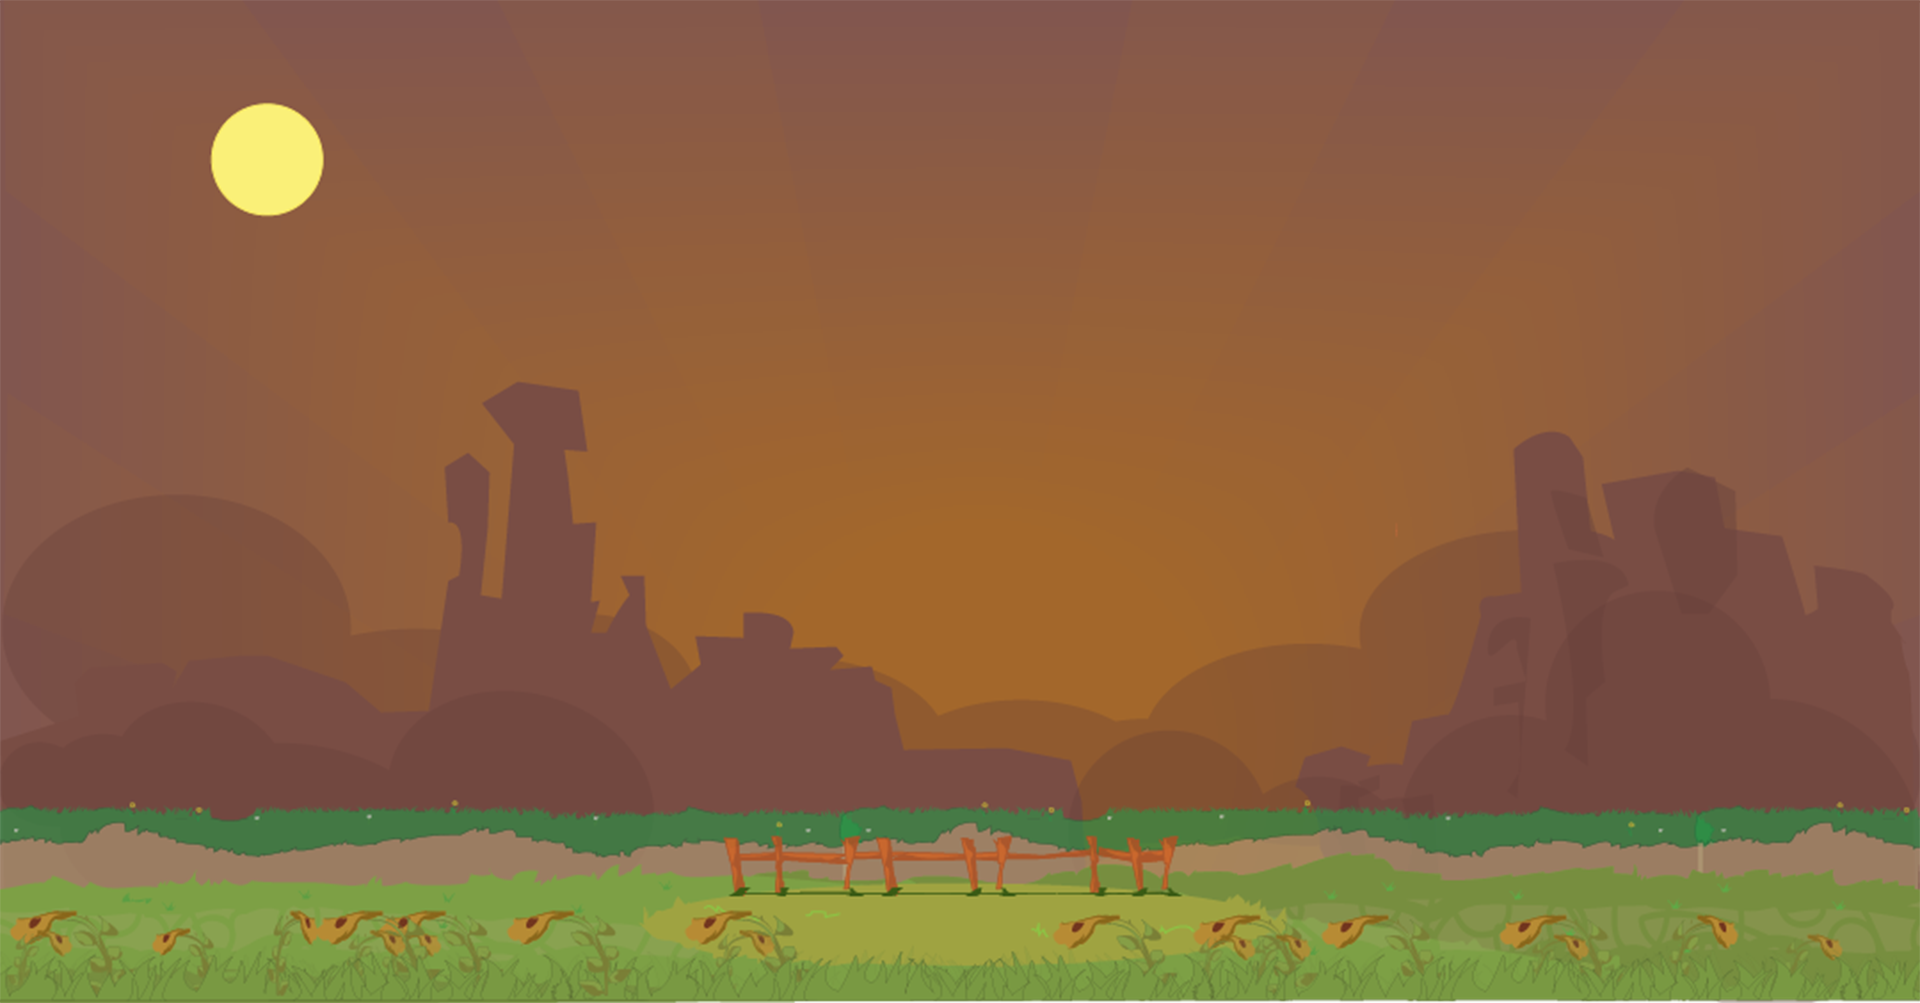
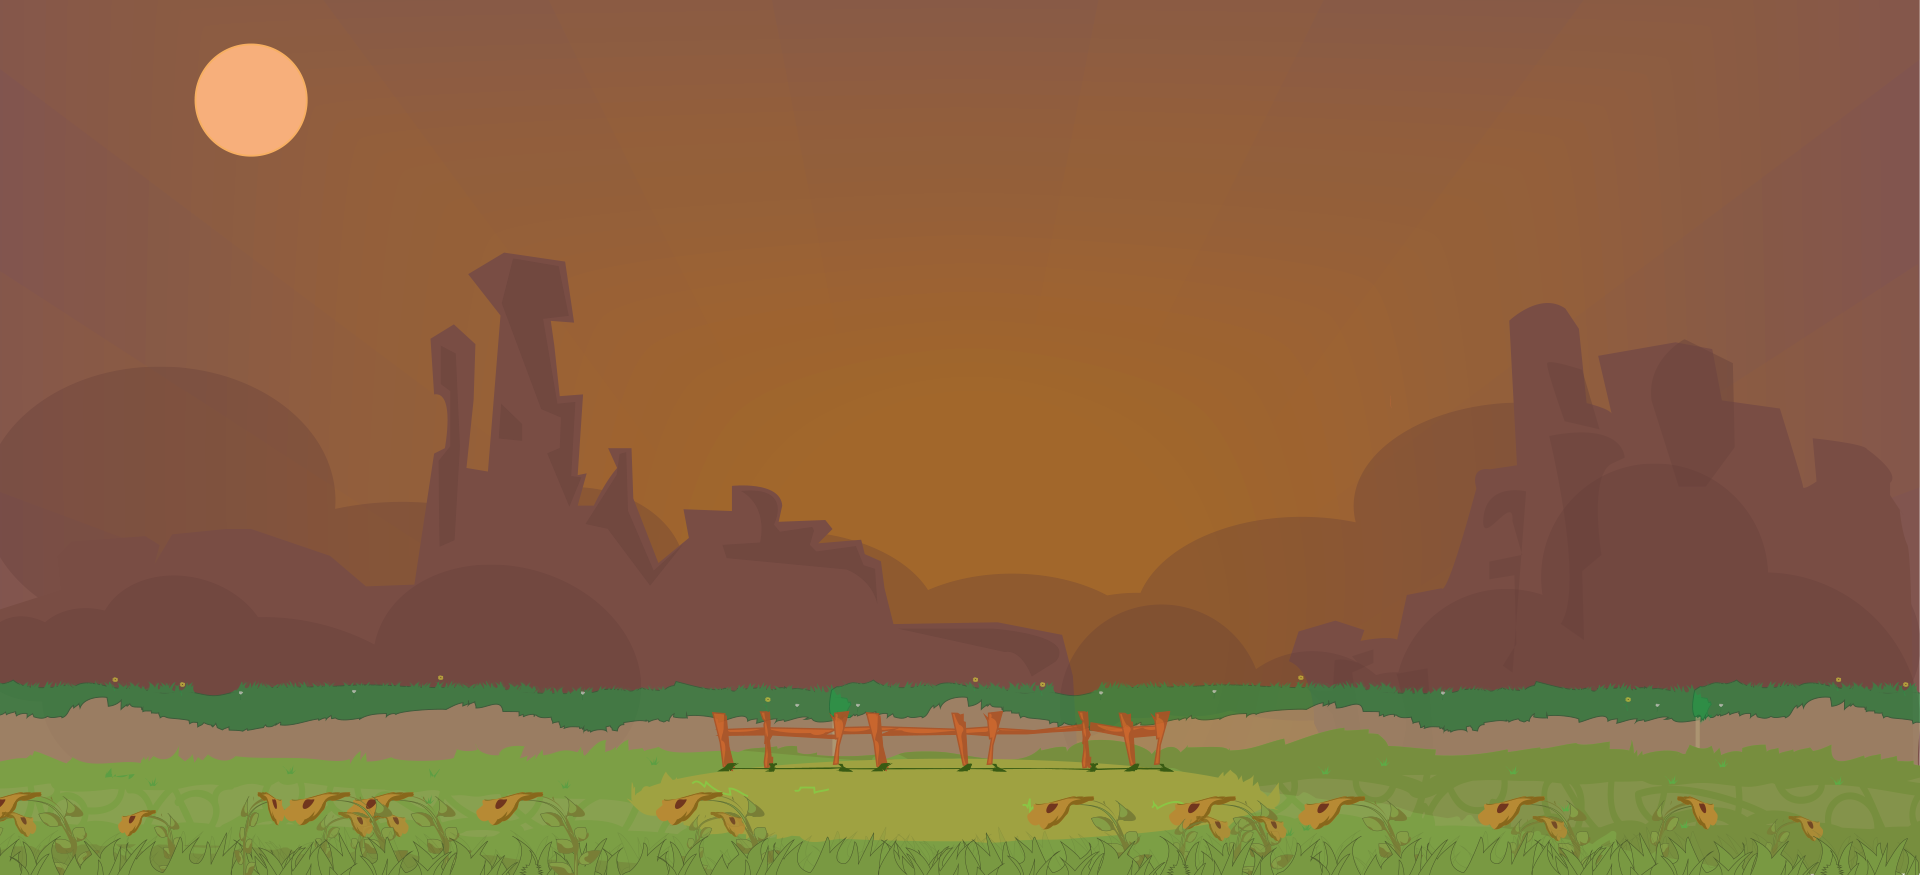
More Level One Implmentation

diff --git a/bigfoot/classes/LevelOne.js b/bigfoot/classes/LevelOne.js
@@ -2,45 +2,14 @@ window.LevelOne = function()
 {
 	var LevelOne = function() //takes in all init parameters here
 	{
+		//gamestates
+		this.STATE_CUTSCENE = 0;
+		this.STATE_BUILDING = 1;
+		this.STATE_RUNNING = 2;
+
+		this.loadAssets();
+
 		//all init logic goes here
-		var lvl1Size = {width:237,height:114};
-		var lvl2Size = {width:230,height:128};
-		var lvl3Size = {width:231,height:129};
-
-		var lvl1Pos = {x:880,y:500},
-		lvl2Pos = {x:880,y:350},
-		lvl3Pos = {x:880,y:200};
-		
-		//var whaleSize = getCorrectedSize({width:350,height:222});
-		var whaleSize = {width:350,height:222};
-
-		var wood1 = new SpriteNode("img/lvl1/wood_LV1.png",1,-1,lvl1Size,lvl1Pos,1,1,true);
-		
-		var wood2 = new SpriteNode("img/lvl1/wood_LV2.png",1,-1,lvl2Size,lvl2Pos,1,1,true);
-		
-		var wood3 = new SpriteNode("img/lvl1/wood_LV3.png",1,-1,lvl3Size,lvl3Pos,1,1,true);
-
-		var metal1 = new SpriteNode("img/lvl1/metal_LV1.png",1,-1,lvl1Size,lvl1Pos,1,1,false);
-		
-		var metal2 = new SpriteNode("img/lvl1/metal_LV2.png",1,-1,lvl2Size,lvl2Pos,1,1,false);
-		
-		var metal3 = new SpriteNode("img/lvl1/metal_LV3.png",1,-1,lvl3Size,lvl3Pos,1,1,false);
-
-		var glass1 = new SpriteNode("img/lvl1/glass_LV1.png",1,-1,lvl1Size,lvl1Pos,1,1,false);
-		
-		var glass2 = new SpriteNode("img/lvl1/glass_LV2.png",1,-1,lvl2Size,lvl2Pos,1,1,false);
-		
-		var glass3 = new SpriteNode("img/lvl1/glass_LV3.png",1,-1,lvl3Size,lvl3Pos,1,1,false);
-
-		var whale = new SpriteNode("img/lvl1/whale_fly.png",323,2,whaleSize,{x:100,y:400},19,17,true);
-
-		whale.play();
-
-		this.lightbg = new SpriteNode("img/lvl1/bg-light.png",1,-1,{width:1880,height:750},{x:20,y:20},1,1,true);
-
-		//array of sprites to use
-		this.sprites = [wood1,wood2,wood3,metal1,metal2,metal3,glass1,glass2,glass3,whale];
-
 		var blockOptions = [
 			{
 				title:"cancel",
@@ -93,31 +62,8 @@ window.LevelOne = function()
 		];
 
 		var spotSize = {width:150,height:150};
-		var spotPos = [{x:550,y:900},{x:750,y:900},{x:950,y:900}];
+		var spotPos = [{x:550,y:980},{x:750,y:980},{x:950,y:980}];
 
-		/*this.spotsToDrag = [
-			{
-				x:spotPosOne.x,
-				y:spotPosOne.y,
-				width:spotSize.width,
-				height:spotSize.height,
-				slottedBlock:undefined
-			},
-			{
-				x:spotPosTwo.x,
-				y:spotPosTwo.y,
-				width:spotSize.width,
-				height:spotSize.height,
-				slottedBlock:undefined
-			},
-			{
-				x:spotPosThree.x,
-				y:spotPosThree.y,
-				width:spotSize.width,
-				height:spotSize.height,
-				slottedBlock:undefined
-			}
-		];*/
 		this.spotsToDrag = [];
 
 		for (var i = 0; i < 3; i++)
@@ -130,16 +76,127 @@ window.LevelOne = function()
 
 	var p = LevelOne.prototype;
 
+	p.loadAssets = function()
+	{
+		var lvl1Size = {width:237,height:114};
+		var lvl2Size = {width:230,height:128};
+		var lvl3Size = {width:231,height:129};
+
+		var lvl1Pos = {x:880,y:500},
+		lvl2Pos = {x:880,y:350},
+		lvl3Pos = {x:880,y:200};
+		
+		//var whaleSize = getCorrectedSize({width:350,height:222});
+		var whaleSize = {width:350,height:222};
+
+		var wood1 = new SpriteNode("img/lvl1/wood_LV1.png",1,-1,lvl1Size,lvl1Pos,1,1,true);
+		
+		var wood2 = new SpriteNode("img/lvl1/wood_LV2.png",1,-1,lvl2Size,lvl2Pos,1,1,true);
+		
+		var wood3 = new SpriteNode("img/lvl1/wood_LV3.png",1,-1,lvl3Size,lvl3Pos,1,1,true);
+
+		var metal1 = new SpriteNode("img/lvl1/metal_LV1.png",1,-1,lvl1Size,lvl1Pos,1,1,false);
+		
+		var metal2 = new SpriteNode("img/lvl1/metal_LV2.png",1,-1,lvl2Size,lvl2Pos,1,1,false);
+		
+		var metal3 = new SpriteNode("img/lvl1/metal_LV3.png",1,-1,lvl3Size,lvl3Pos,1,1,false);
+
+		var glass1 = new SpriteNode("img/lvl1/glass_LV1.png",1,-1,lvl1Size,lvl1Pos,1,1,false);
+		
+		var glass2 = new SpriteNode("img/lvl1/glass_LV2.png",1,-1,lvl2Size,lvl2Pos,1,1,false);
+		
+		var glass3 = new SpriteNode("img/lvl1/glass_LV3.png",1,-1,lvl3Size,lvl3Pos,1,1,false);
+
+		var placeholder1 = new SpriteNode('img/lvl1/blank_floor.png',1,-1,lvl1Size,lvl1Pos,1,1,true),
+		placeholder2 = new SpriteNode('img/lvl1/blank_floor.png',1,-1,lvl2Size,lvl2Pos,1,1,true),
+		placeholder3 = new SpriteNode('img/lvl1/blank_floor.png',1,-1,lvl3Size,lvl3Pos,1,1,true);
+
+		this.emptyLevels = [placeholder1,placeholder2,placeholder3];
+
+		this.whaleSprite = new SpriteNode("img/lvl1/whale_fly.png",323,2,whaleSize,{x:100,y:400},19,17,true);
+
+		this.whaleSprite.play();
+
+		this.lightbg = new SpriteNode("img/lvl1/bg-light.png",1,-1,{width:1920,height:875},{x:0,y:0},1,1,true);
+		this.houseSprites = {
+			bottom_wood:wood1,
+			middle_wood:wood2,
+			top_wood:wood3,
+			bottom_metal:metal1,
+			middle_metal:metal2,
+			top_metal:metal3,
+			bottom_glass:glass1,
+			middle_glass:glass2,
+			top_glass:glass3,
+		};
+
+	}
+
 	p.update = function(ctx,frame)
 	{
+		for (var s in this.houseSprites)
+		{
+			this.houseSprites[s].isOnScreen = false;
+		}
+		//if (this.state)
+		for (var i = 0; i < this.spotsToDrag.length;i++)
+		{
+			var spot = this.spotsToDrag[i];
+			if (spot.slottedBlock != undefined)
+			{
+				var block = spot.slottedBlock;
+				if (block.value != '')
+				{
+					var level = '';
+					switch(i)
+					{
+						case 0:
+							level = 'bottom';
+						break;
+						case 1:
+							level = 'middle';
+						break;
+						case 2:
+							level = 'top';
+						break;
+					}
+
+					var obj = this.houseSprites[level+'_'+block.value];
+
+					this.emptyLevels[i].isOnScreen = false;
+					obj.isOnScreen = true;
+				}
+				else
+				{
+					this.emptyLevels[i].isOnScreen = true;
+				}
+			}
+			else
+			{
+				this.emptyLevels[i].isOnScreen = true;
+			}
+		}
+
 		this.lightbg.draw(ctx);
 		//all drawing and update logic goes here
 
-		for (var i = this.sprites.length - 1; i >= 0; i--) {
+		for (var s in this.houseSprites)
+		{
+			var obj = this.houseSprites[s];
+
+			obj.draw(ctx);
+		}
+		for (var s in this.emptyLevels)
+		{
+			this.emptyLevels[s].draw(ctx);
+		}
+
+		this.whaleSprite.draw(ctx);
+		/*for (var i = this.sprites.length - 1; i >= 0; i--) {
 			var s = this.sprites[i]
 
 			s.draw(ctx);
-		};
+		};*/
 
 		
 	}

diff --git a/bigfoot/index.html b/bigfoot/index.html
@@ -2,7 +2,7 @@
 <html>
 <head>
 <meta http-equiv="Content-Type" content="text/html; charset=utf-8">
-<title>Leap Motion JavaScript Sample</title>
+<title>Spark*</title>
 <script src="http://js.leapmotion.com/0.2.0/leap.min.js"></script>
 <script src="jquery.js"></script>
 <!--//load classes-->
@@ -14,7 +14,7 @@
 <script src="classes/Hand.js"></script>
 <script src="classes/LevelOne.js"></script>
 <script>
-	var debug = true;
+	var debug = false;
 
 	var previousFrame = null;
 	var paused = false;
@@ -81,7 +81,7 @@
 
   		dragCircle = {};
   		dragCircle.x = browserWidth/10 - 5;
-  		dragCircle.y = browserHeight - 100;
+  		dragCircle.y = browserHeight - 50;
   		dragCircle.radius = 10;
 
   		tempHand = new Hand();
@@ -156,20 +156,20 @@
 	function drawUI(frame)
 	{
 		//DRAW COMMON UI ELEMENTS
-		var toolboxPos = getCorrectedPosition({x:100,y:810});
+		var toolboxPos = getCorrectedPosition({x:100,y:890});
 		var toolboxSize = getCorrectedSize({width:toolboxIMG.width,height:toolboxIMG.height});
 
 		ctx.fillStyle = "#919191";
 		ctx.drawImage(toolboxIMG,toolboxPos.x,toolboxPos.y, toolboxSize.width, toolboxSize.height);
 
 
-		var stagePos = getCorrectedPosition({x:20,y:20}),
-		stageSize = getCorrectedSize({width:1880, height:750});
+		var stagePos = getCorrectedPosition({x:0,y:0}),
+		stageSize = getCorrectedSize({width:1920, height:875});
 		ctx.strokeStyle = "#000";
 		ctx.strokeRect( stagePos.x,stagePos.y,stageSize.width,stageSize.height);
 
-		var runPos = getCorrectedPosition({x:1700,y:800}),
-		runSize = getCorrectedSize({width:200,height:200});
+		var runPos = getCorrectedPosition({x:1700,y:890}),
+		runSize = getCorrectedSize({width:175,height:175});
 
 		ctx.drawImage(runBtnActive,runPos.x,runPos.y, runSize.width, runSize.height);
 		//placeholder toolbar
@@ -177,7 +177,7 @@
 
 		//actual toolbar
 		var buildSize = getCorrectedSize({width:buildBar.width,height:buildBar.height});
-		var buildPos = getCorrectedPosition({x:400, y:800});
+		var buildPos = getCorrectedPosition({x:350, y:880});
 		ctx.drawImage(buildBar,buildPos.x,buildPos.y,buildSize.width,buildSize.height);
 
 		//ui
@@ -229,7 +229,7 @@
 				if (hand.fingers.length > 0)
 				{
 					startDragY = -1;
-					dragCircle.y = browserHeight - 100;
+					dragCircle.y = browserHeight - 50;
 				}
 				if (circlesIntersect(c1,dragCircle) && hand.fingers.length <= 0 && startDragY == -1)
 				{
